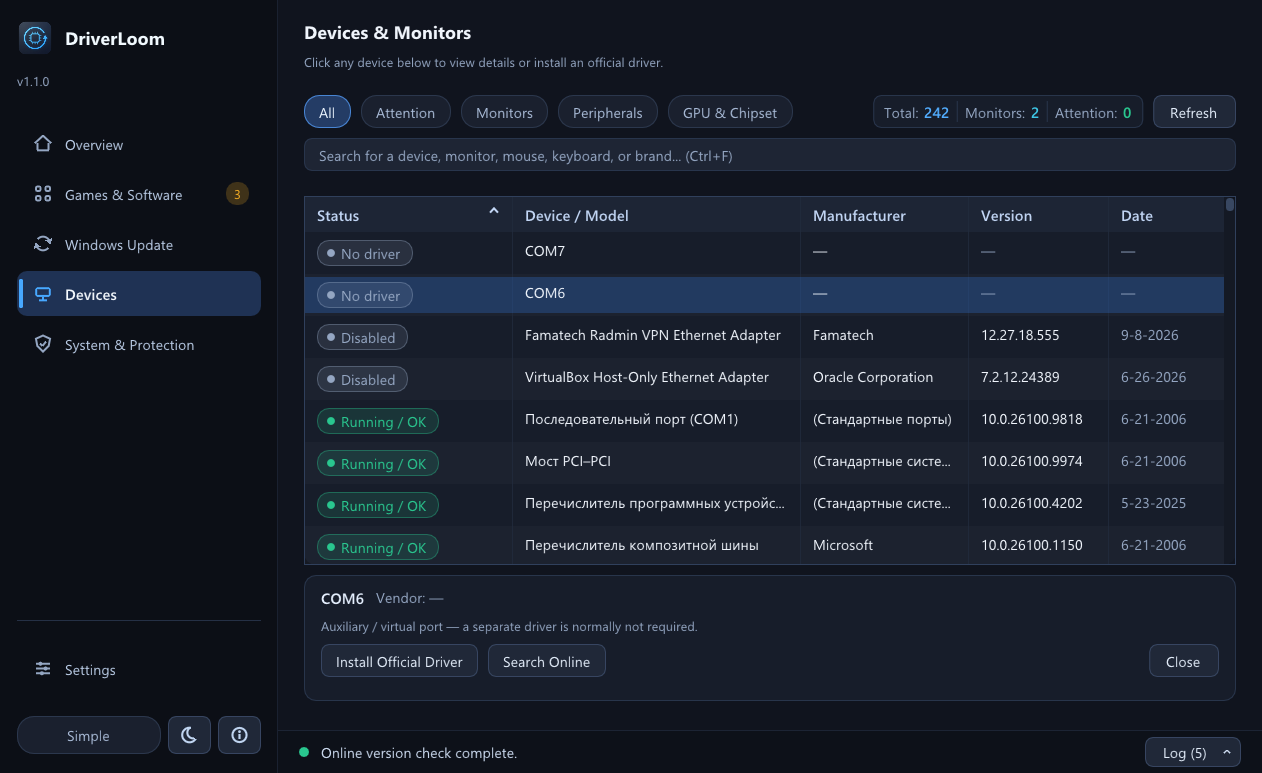
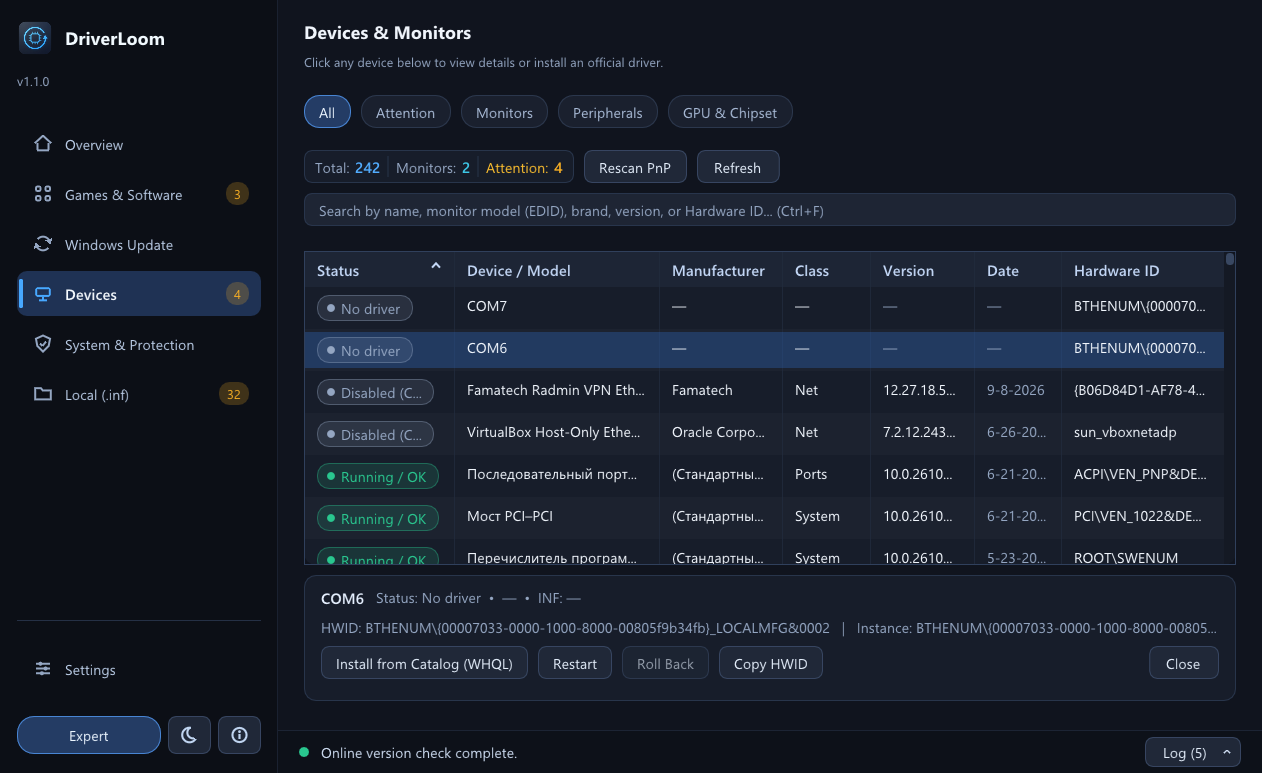
Capture README screenshots 1-5 in Expert mode and 6 in Light Simple mode

diff --git a/src/main.cpp b/src/main.cpp
@@ -392,19 +392,19 @@ void RenderSingleFrame(
             if (phase == 0) {
                 switch (viewIdx) {
                 case 0:
-                    g_appInstance->ConfigureCaptureState(0, 0, 0, false, false, -1);
+                    g_appInstance->ConfigureCaptureState(0, 0, 0, true, false, -1);
                     break;
                 case 1:
-                    g_appInstance->ConfigureCaptureState(1, 0, 0, false, false, -1);
+                    g_appInstance->ConfigureCaptureState(1, 0, 0, true, false, -1);
                     break;
                 case 2:
-                    g_appInstance->ConfigureCaptureState(2, 0, 0, false, false, -1);
+                    g_appInstance->ConfigureCaptureState(2, 0, 0, true, false, -1);
                     break;
                 case 3:
-                    g_appInstance->ConfigureCaptureState(3, 0, 0, false, false, 0);
+                    g_appInstance->ConfigureCaptureState(3, 0, 0, true, false, 0);
                     break;
                 case 4:
-                    g_appInstance->ConfigureCaptureState(4, 0, 0, false, false, -1);
+                    g_appInstance->ConfigureCaptureState(4, 0, 0, true, false, -1);
                     break;
                 case 5:
                     g_appInstance->ConfigureCaptureState(0, 0, 0, false, true, -1);
